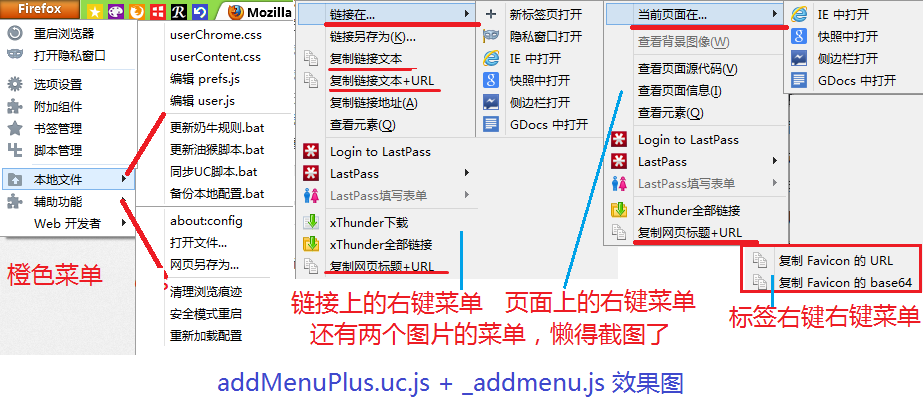
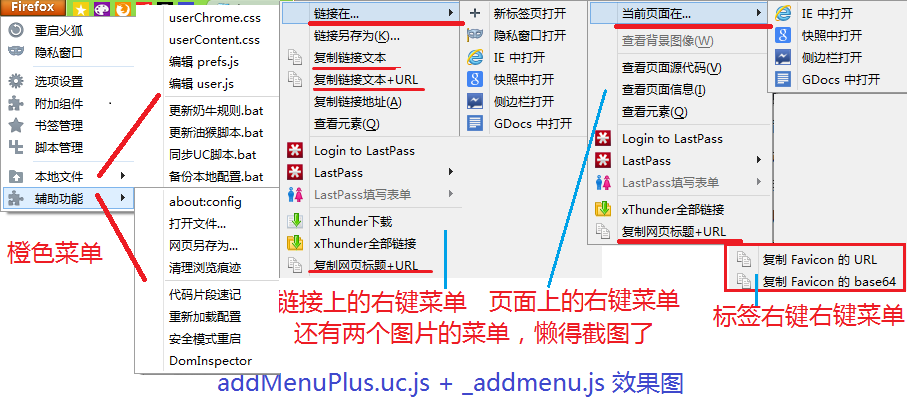
更新效果图

Changed region(s): [[0.0, 0.0, 1.0, 0.9565]]

diff --git a/addMenuPlus/_addmenu.js b/addMenuPlus/_addmenu.js
@@ -19,12 +19,12 @@ css('/*=====橙色菜单定制=========*/\
     #appmenu-quit,\
     #appmenuSecondaryPane{display: none !important;}');
 app([{
-            label : "重启浏览器",
+            label : "重启火狐",
             oncommand : "Services.appinfo.invalidateCachesOnRestart() || Application.restart();",
             insertBefore : "appmenu_newPrivateWindow",
[1 lines of base64/hex data omitted]
         }, {
-            label : "打开隐私窗口",
+            label : "隐私窗口",
             oncommand : "OpenBrowserWindow({private: true});",
             insertBefore : "appmenu_newPrivateWindow",
[1 lines of base64/hex data omitted]
